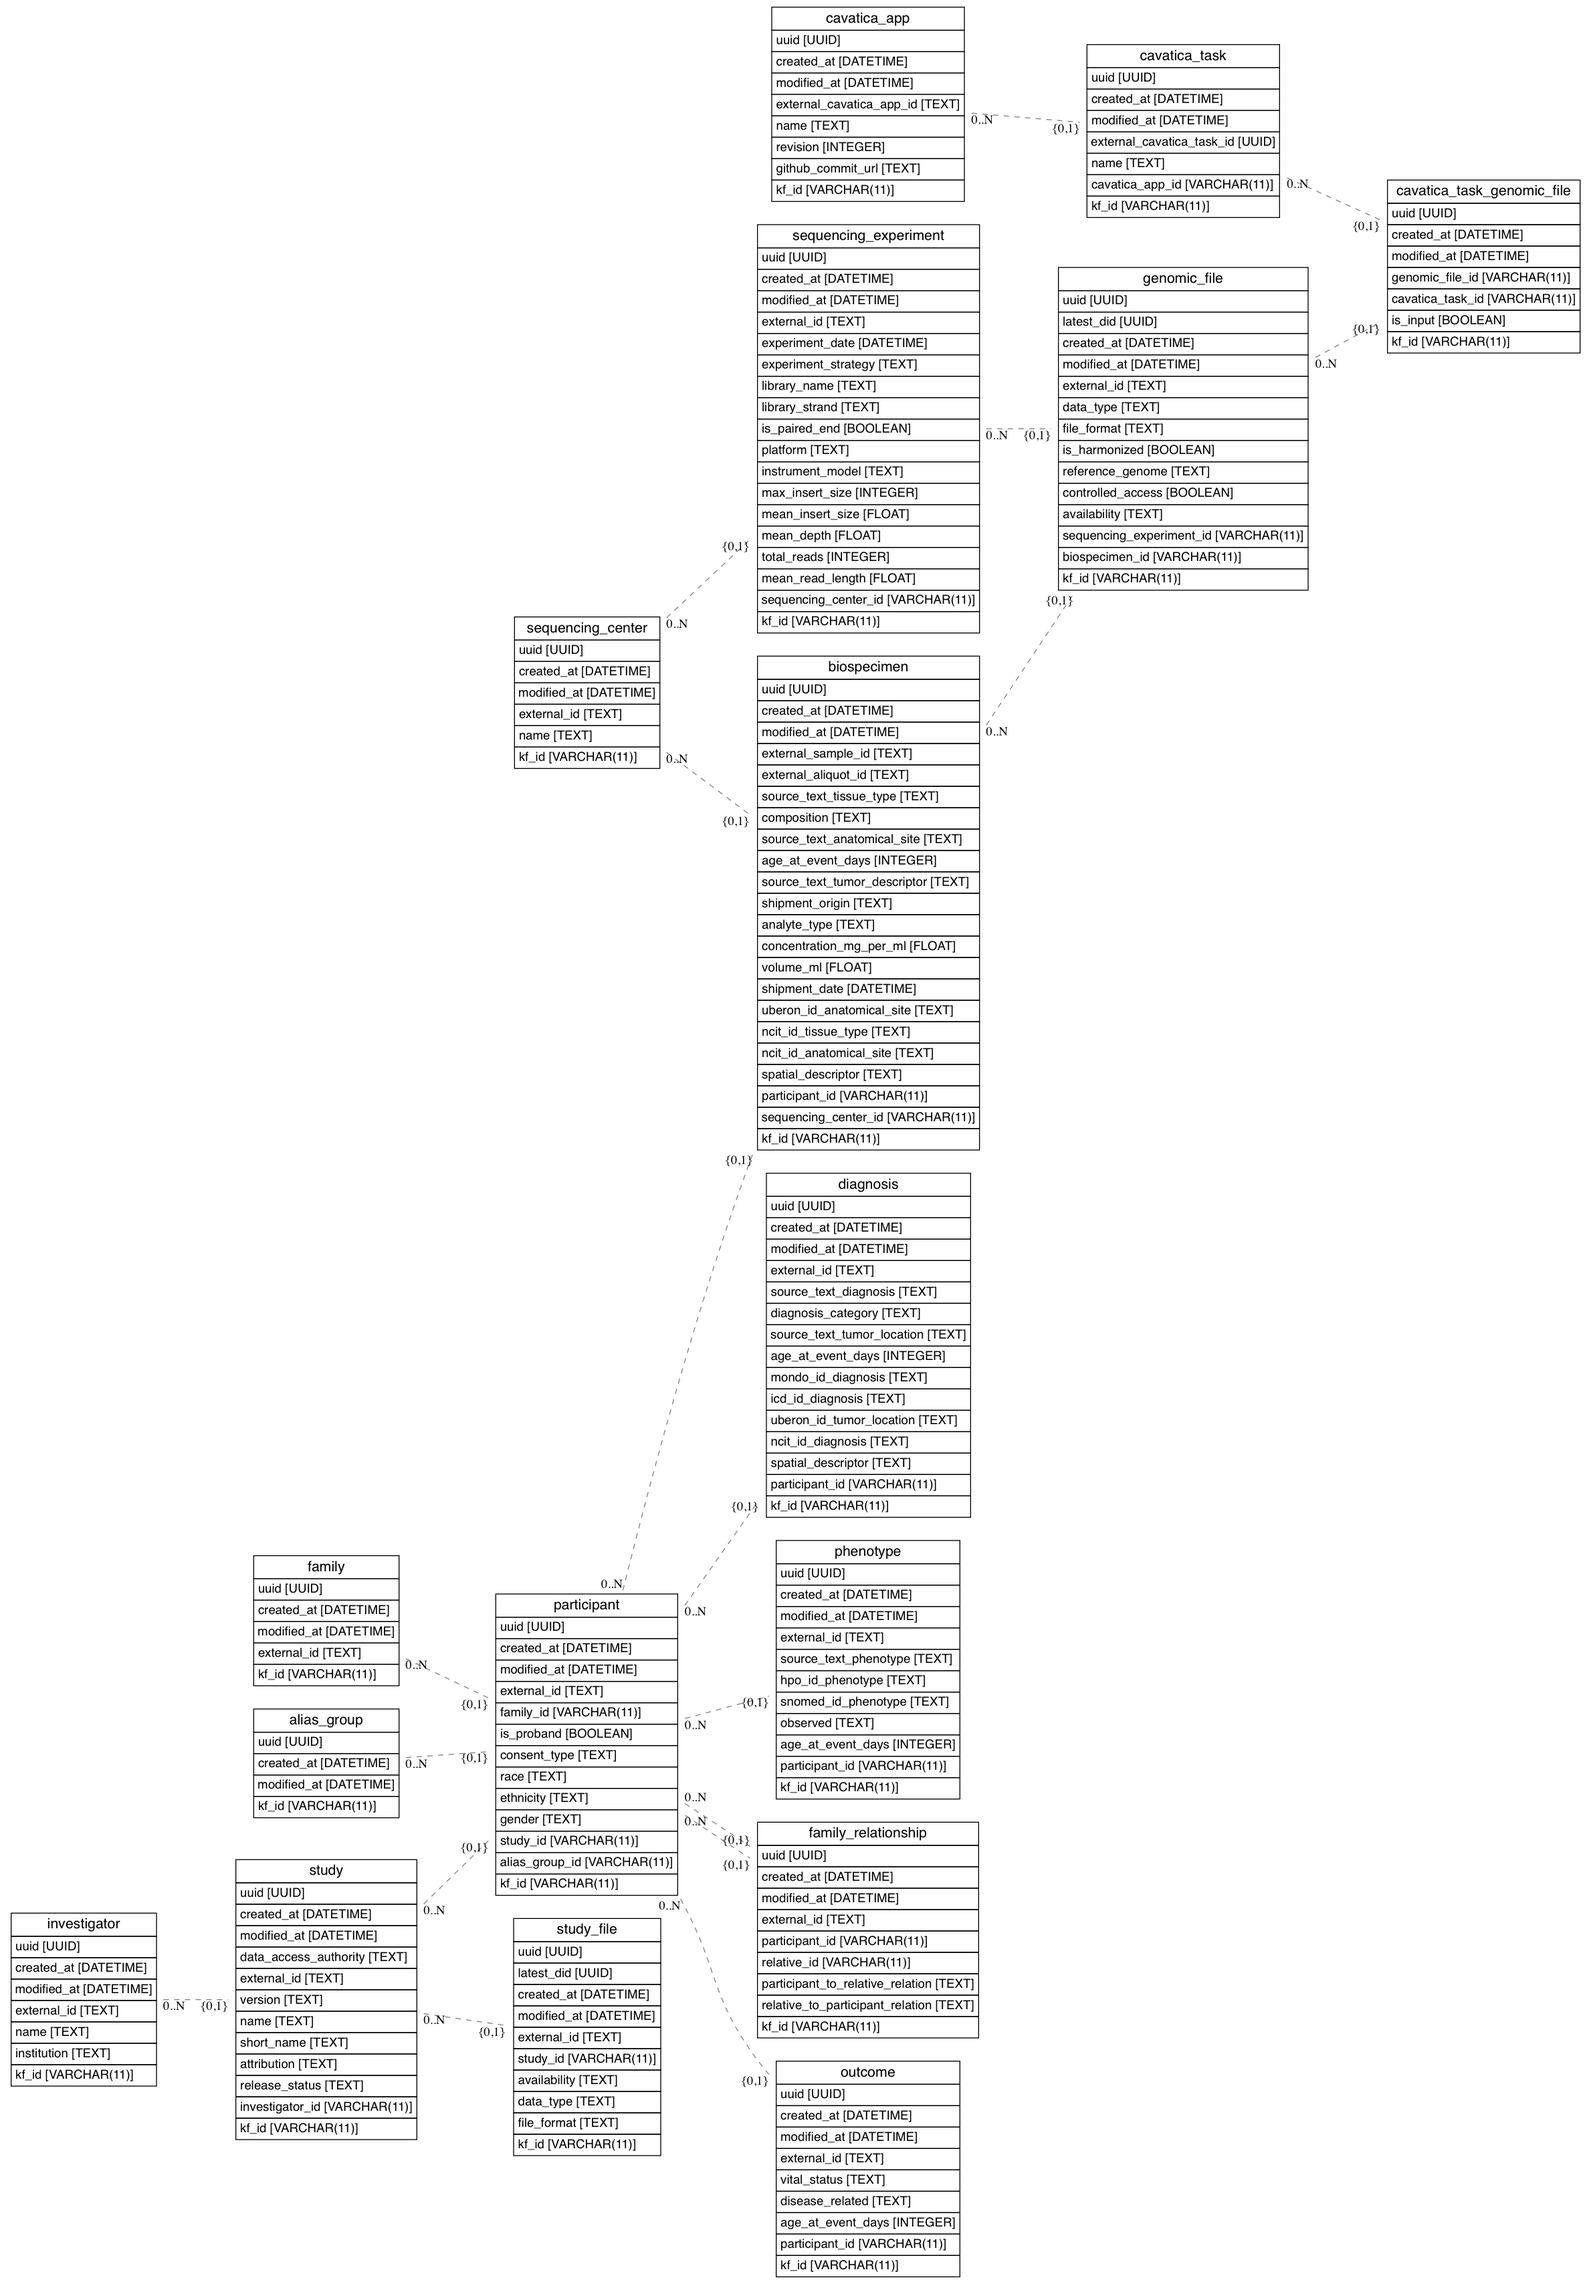
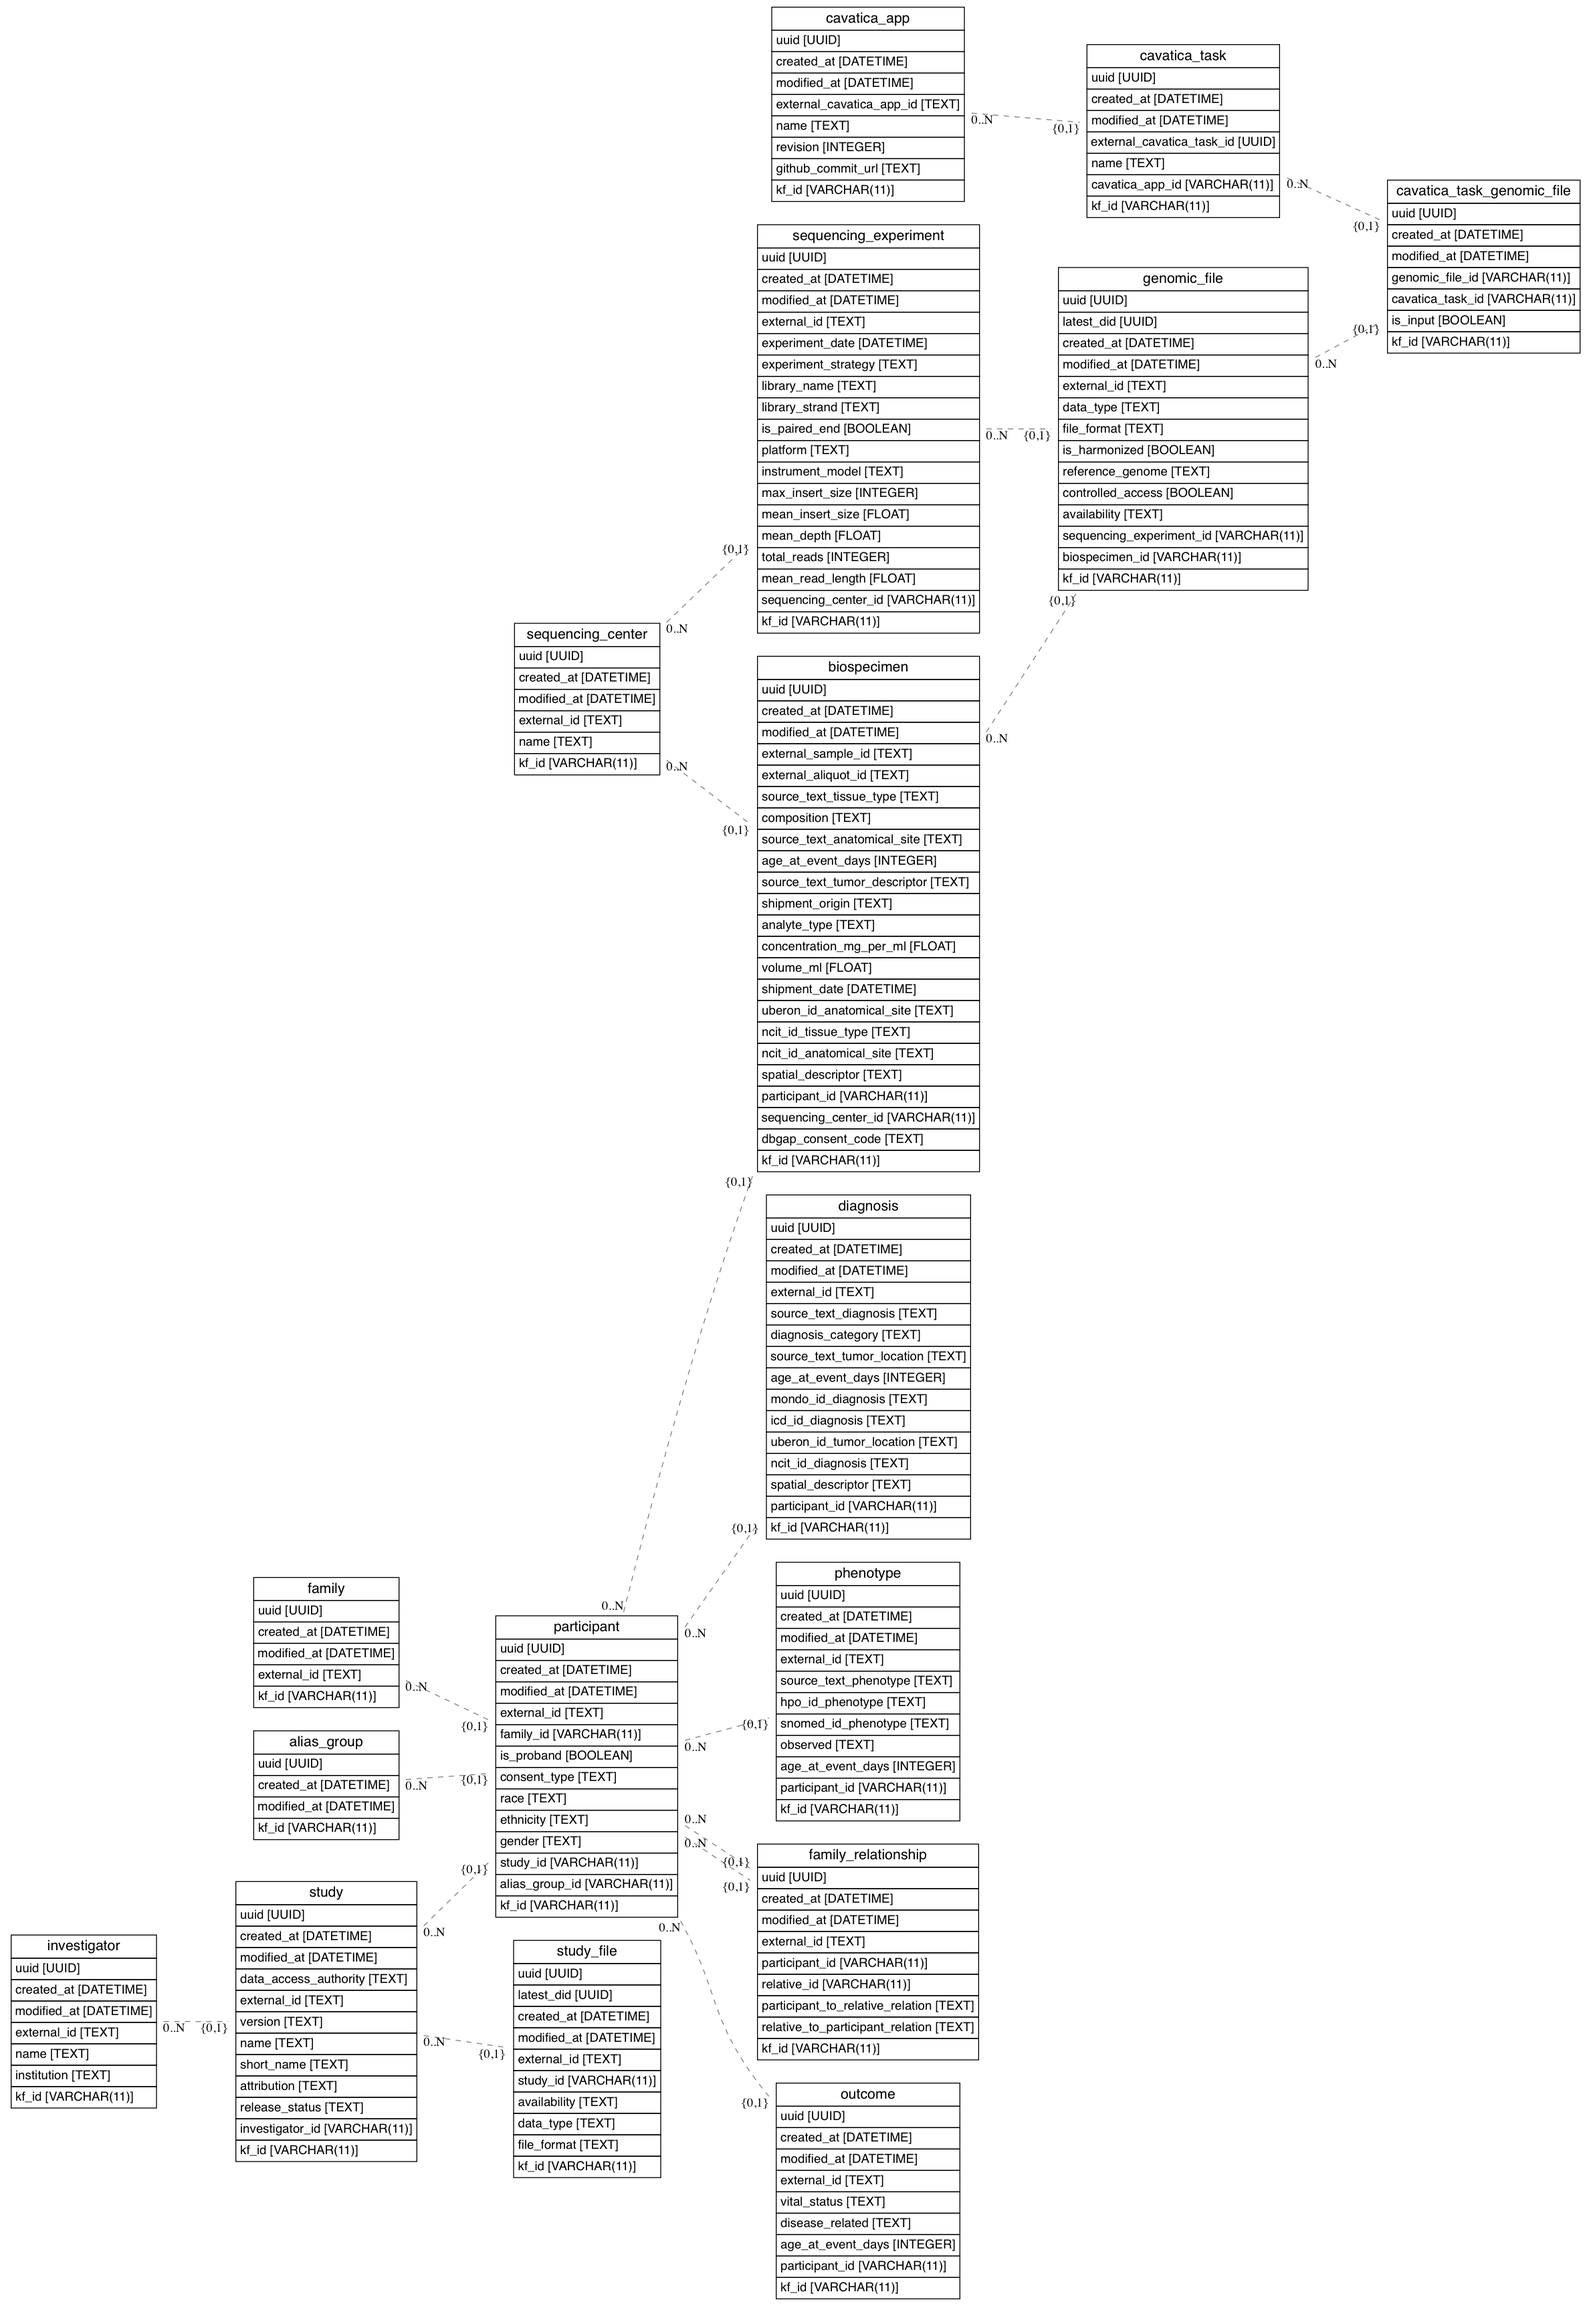
:card_file_box: Update erd and migrations for dbgap_consent_code

diff --git a/migrations/versions/8f1ad897fb0f_.py b/migrations/versions/8f1ad897fb0f_.py
@@ -1,0 +1,30 @@
+"""
+1.0.1 Add dbgap_consent_code to biospecimen
+
+Revision ID: 8f1ad897fb0f
+Revises: 7575993b35a7
+Create Date: 2018-05-23 13:30:08.798811
+
+"""
+from alembic import op
+import sqlalchemy as sa
+
+
+# revision identifiers, used by Alembic.
+revision = '8f1ad897fb0f'
+down_revision = '7575993b35a7'
+branch_labels = None
+depends_on = None
+
+
+def upgrade():
+    # ### commands auto generated by Alembic - please adjust! ###
+    op.add_column('biospecimen', sa.Column(
+        'dbgap_consent_code', sa.Text(), nullable=True))
+    # ### end Alembic commands ###
+
+
+def downgrade():
+    # ### commands auto generated by Alembic - please adjust! ###
+    op.drop_column('biospecimen', 'dbgap_consent_code')
+    # ### end Alembic commands ###
